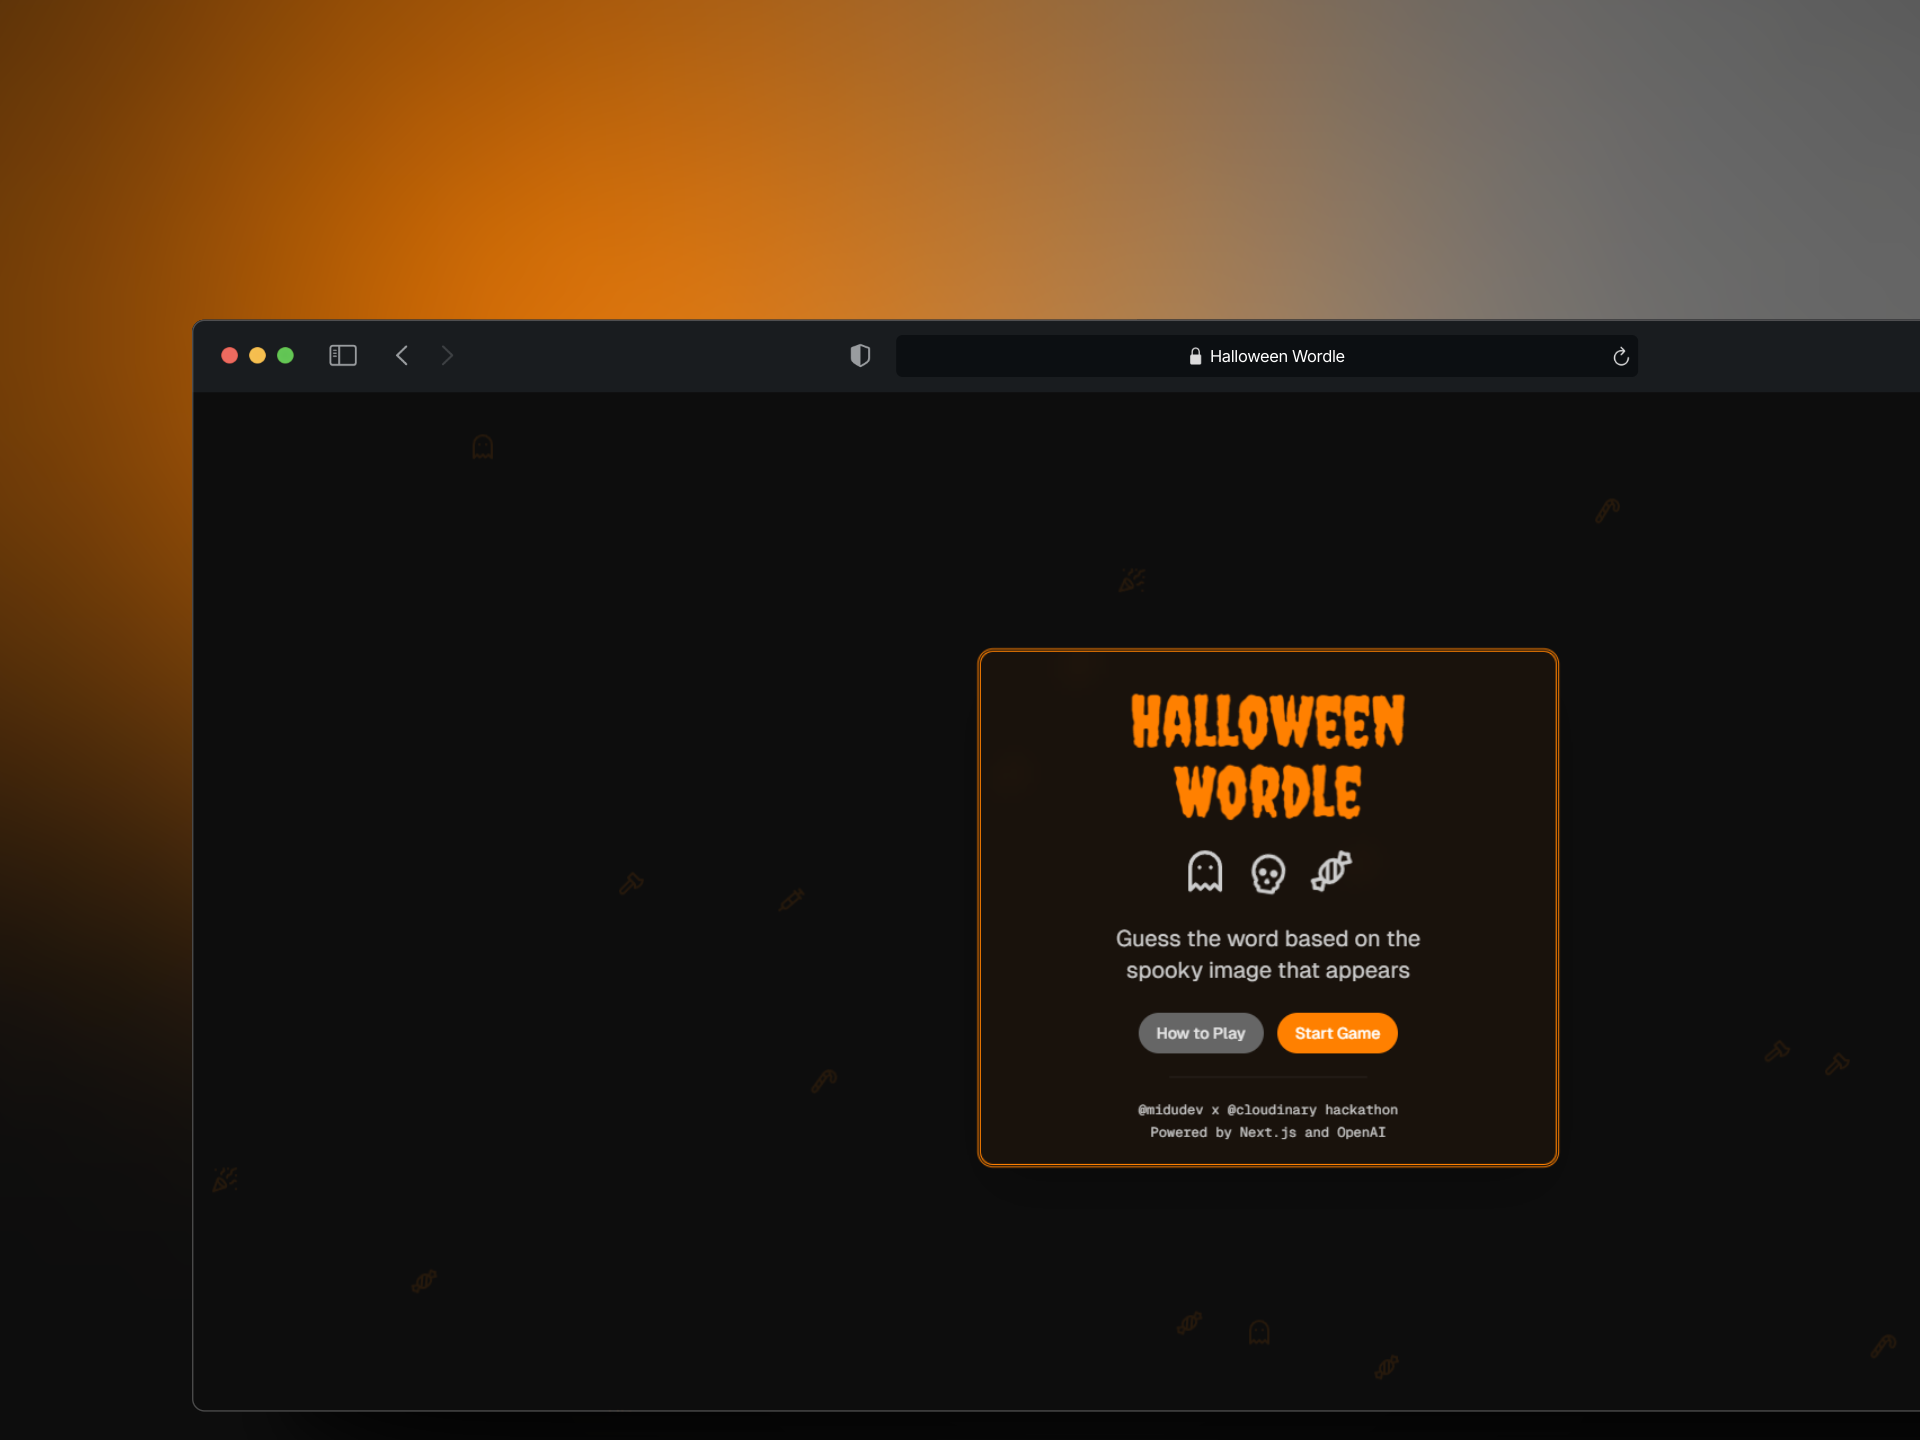
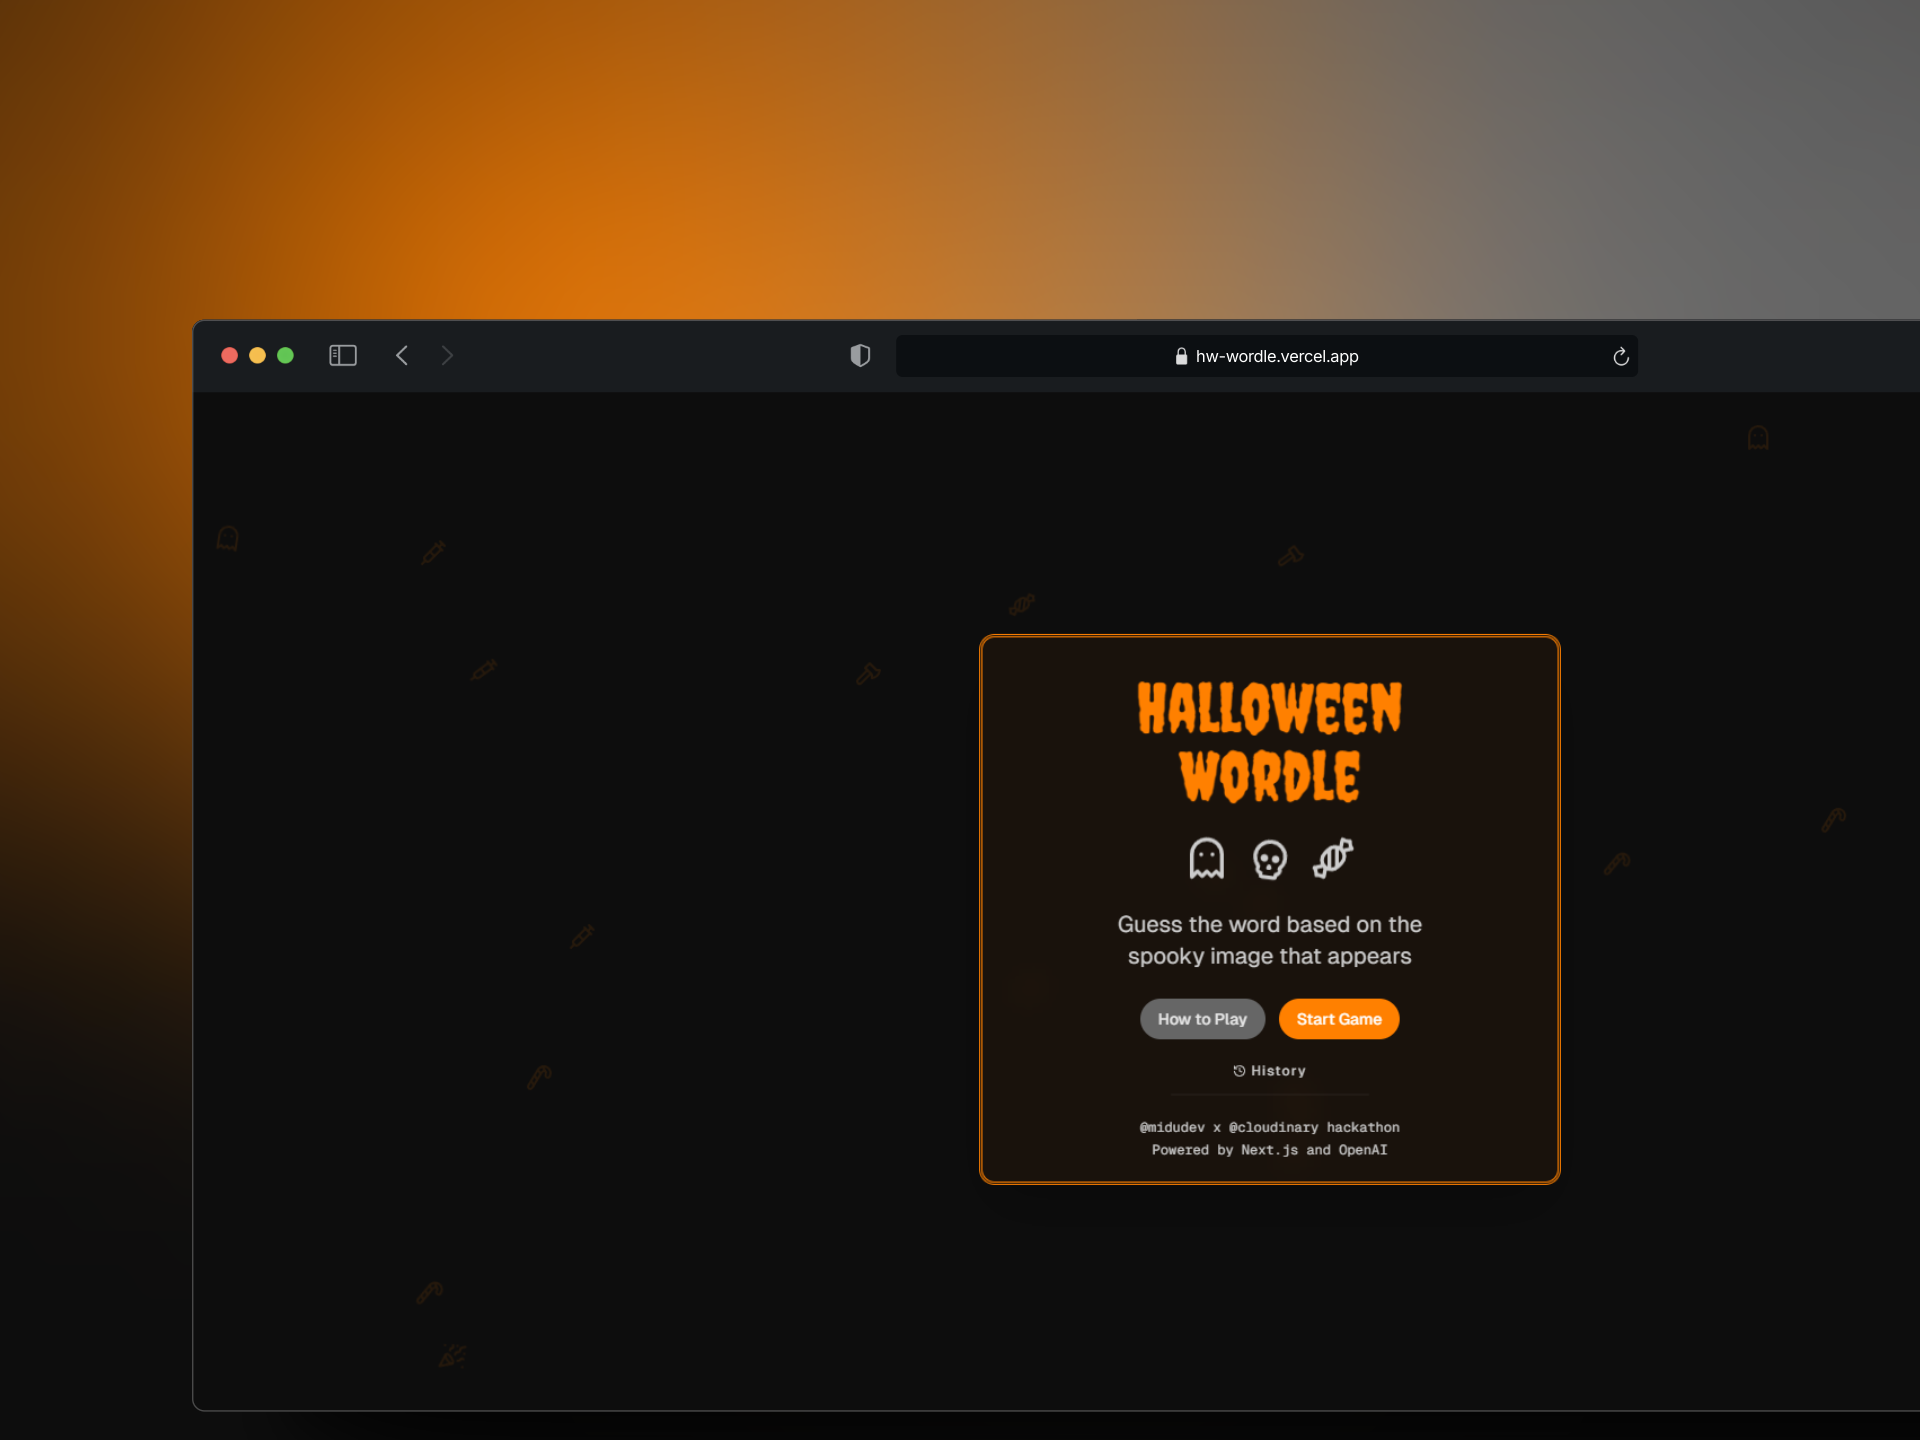
refactor: readme and update metadata URLs

diff --git a/src/app/layout.tsx b/src/app/layout.tsx
@@ -31,14 +31,14 @@ export const metadata: Metadata = {
   openGraph: {
     type: 'website',
     locale: 'en_US',
-    url: 'https://halloween-wordles-game.vercel.app',
+    url: 'https://hw-wordle.vercel.app',
     title: 'Halloween Wordle',
     description:
       'A spooky Halloween-themed Wordle game, all content AI-generated and managed by Cloudinary.',
     siteName: 'Halloween Wordle',
     images: [
       {
-        url: 'https://halloween-wordles-game.vercel.app/og.png',
+        url: 'https://hw-wordle.vercel.app/og.png',
         width: 1200,
         height: 630,
         alt: 'Halloween Wordle'
@@ -50,7 +50,7 @@ export const metadata: Metadata = {
     title: 'Halloween Wordle',
     description:
       'A spooky Halloween-themed Wordle game, all content AI-generated and managed by Cloudinary.',
-    images: ['https://halloween-wordles-game.vercel.app/og.png'],
+    images: ['https://hw-wordle.vercel.app/og.png'],
     creator: '@jozefzin'
   },
   icons: {

diff --git a/README.md b/README.md
@@ -1,6 +1,9 @@
-# 🎃 Halloween Wordle AI
-
-![Halloween Wordle AI Banner](https://res.cloudinary.com/demo/image/upload/w_700,c_thumb,g_face,f_auto,q_auto/halloween_wordle_ai.jpg)
+<div align="center">
+<a href="https://hw-wordle.vercel.app">
+<img src="https://hw-wordle.vercel.app/og.png">
+</a>
+<h1>Halloween Wordle</h1>
+</div>
 
 ## 👻 Description
 
@@ -13,7 +16,6 @@ Halloween Wordle AI is an innovative and themed version of the popular word game
 - Halloween atmospheric design
 - Cloudinary integration for image management and optimization
 - Game mode based on image interpretation
-- Leaderboard for each game
 - Each set can be shared
 
 ## 🧙♀ Using Cloudinary
@@ -31,15 +33,14 @@ Cloudinary has been used in this project to:
 - Tailwind CSS
 - OpenAI API for word generation
 - DALL-E for image generation
-- Turso database (sqlite) for storing game data and leaderboard
-- Prisma ORM (with `adapter-libsql`)
+- Supabase and Prisma ORM
 
 📥 Installation
 
 1. Clone this repository:
 
 ```bash
-git clone https://github.com/tu-usuario/halloween-wordle-ai.git
+git clone https://github.com/JJozef/hw-wordle.git
 ```
 
 2. Install the dependencies:
@@ -53,32 +54,14 @@ bun i
 4. Run migrations:
 
 ```bash
-# https://www.prisma.io/docs/orm/overview/databases/turso
+bun prisma db push
 
-# 1. Create a new database on turso site
-# 2. Add your credentials to the .env file
-# 3. Install turso (in windows use WSL)
-
-# ----
-
-# 1.
 bun prisma generate
+```
 
-# 2.
-bun prisma migrate dev --name init
+5. Start the development server:
 
-# 3. (in windows terminal with WSL)
-    # 1. init wsl
-        wsl
-    # 2. install turso
-        curl -sSfL https://get.tur.so/install.sh | bash
-    # 3. login
-        turso auth login --headless
-
-# 4. (in WSL)
-turso db shell turso-prisma-db < ./prisma/migrations/20230922132717_init/migration.sql
-
-# 5.
+```bash
 bun dev
 ```
 
